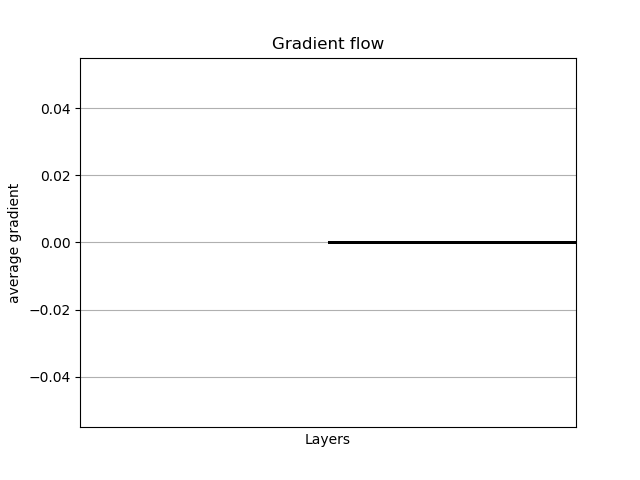
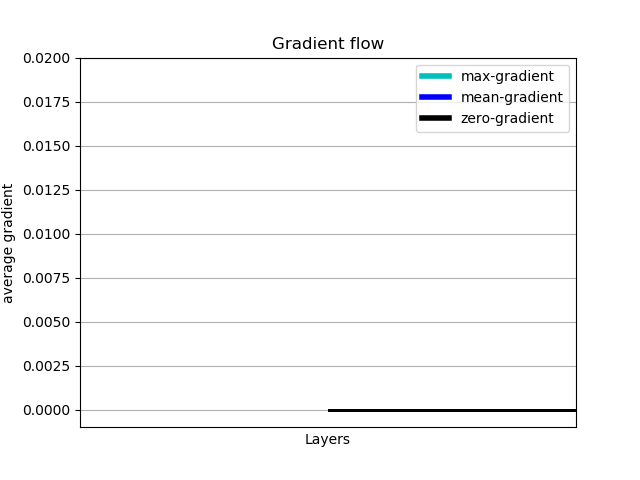
Graph update.

diff --git a/src/gpt2_spred/bad_grad_viz.py b/src/gpt2_spred/bad_grad_viz.py
@@ -1,0 +1,77 @@
+from graphviz import Digraph
+import torch
+from torch.autograd import Variable, Function
+
+def iter_graph(root, callback):
+    queue = [root]
+    seen = set()
+    while queue:
+        fn = queue.pop()
+        print("fn:", fn)
+        if fn in seen:
+            continue
+        seen.add(fn)
+        for next_fn, _ in fn.next_functions:
+            if next_fn is not None:
+                queue.append(next_fn)
+        callback(fn)
+
+def register_hooks(var):
+    fn_dict = {}
+    def hook_cb(fn):
+        def register_grad(grad_input, grad_output):
+            fn_dict[fn] = grad_input
+        fn.register_hook(register_grad)
+    iter_graph(var.grad_fn, hook_cb)
+
+    def is_bad_grad(grad_output):
+        print("====================================")
+        # print("grad_output:", grad_output)
+        print("grad_output:", type(grad_output))
+        grad_output = grad_output.data
+        return grad_output.ne(grad_output).any() or grad_output.gt(1e6).any()
+
+    def make_dot():
+        node_attr = dict(style='filled',
+                        shape='box',
+                        align='left',
+                        fontsize='12',
+                        ranksep='0.1',
+                        height='0.2')
+        dot = Digraph(node_attr=node_attr, graph_attr=dict(size="12,12"))
+
+        def size_to_str(size):
+            return '('+(', ').join(map(str, size))+')'
+
+        def build_graph(fn):
+            if hasattr(fn, 'variable'):  # if GradAccumulator
+                u = fn.variable
+                node_name = 'Variable\n ' + size_to_str(u.size())
+                dot.node(str(id(u)), node_name, fillcolor='lightblue')
+            else:
+                assert fn in fn_dict, fn
+                fillcolor = 'white'
+                # print("Function dict:", fn_dict[fn])
+                if any(is_bad_grad(gi) for gi in fn_dict[fn]):
+                    fillcolor = 'red'
+                dot.node(str(id(fn)), str(type(fn).__name__), fillcolor=fillcolor)
+            for next_fn, _ in fn.next_functions:
+                if next_fn is not None:
+                    next_id = id(getattr(next_fn, 'variable', next_fn))
+                    dot.edge(str(next_id), str(id(fn)))
+        iter_graph(var.grad_fn, build_graph)
+
+        return dot
+
+    return make_dot
+
+if __name__ == '__main__':
+    x = Variable(torch.randn(10, 10), requires_grad=True)
+    y = Variable(torch.randn(10, 10), requires_grad=True)
+
+    z = x / (y * 0)
+    z = z.sum() * 2
+    get_dot = register_hooks(z)
+    z.backward()
+    dot = get_dot()
+    dot.save('tmp.dot')

diff --git a/src/gpt2_spred/gradflow_check.py b/src/gpt2_spred/gradflow_check.py
@@ -1,0 +1,49 @@
+import matplotlib.pyplot as plt
+from matplotlib.lines import Line2D
+import numpy as np
+
+def plot_grad_flow(named_parameters):
+    ave_grads = []
+    layers = []
+    for n, p in named_parameters:
+        if(p.requires_grad) and ("bias" not in n):
+            layers.append(n)
+            ave_grads.append(p.grad.abs().mean())
+    plt.plot(ave_grads, alpha=0.3, color="b")
+    plt.hlines(0, 0, len(ave_grads)+1, linewidth=1, color="k" )
+    plt.xticks(range(0,len(ave_grads), 1), layers, rotation="vertical")
+    plt.xlim(xmin=0, xmax=len(ave_grads))
+    plt.xlabel("Layers")
+    plt.ylabel("average gradient")
+    plt.title("Gradient flow")
+    plt.grid(True)
+    
+
+def plot_grad_flow_v2(named_parameters):
+    '''Plots the gradients flowing through different layers in the net during training.
+    Can be used for checking for possible gradient vanishing / exploding problems.
+    
+    Usage: Plug this function in Trainer class after loss.backwards() as 
+    "plot_grad_flow(self.model.named_parameters())" to visualize the gradient flow'''
+    ave_grads = []
+    max_grads= []
+    layers = []
+    for n, p in named_parameters:
+        if(p.requires_grad) and ("bias" not in n):
+            layers.append(n)
+            ave_grads.append(p.grad.abs().mean())
+            max_grads.append(p.grad.abs().max())
+    plt.bar(np.arange(len(max_grads)), max_grads, alpha=0.1, lw=1, color="c")
+    plt.bar(np.arange(len(max_grads)), ave_grads, alpha=0.1, lw=1, color="b")
+    plt.hlines(0, 0, len(ave_grads)+1, lw=2, color="k" )
+    plt.xticks(range(0,len(ave_grads), 1), layers, rotation="vertical")
+    plt.xlim(left=0, right=len(ave_grads))
+    plt.ylim(bottom = -0.001, top=0.02) # zoom in on the lower gradient regions
+    plt.xlabel("Layers")
+    plt.ylabel("average gradient")
+    plt.title("Gradient flow")
+    plt.grid(True)
+    plt.legend([Line2D([0], [0], color="c", lw=4),
+                Line2D([0], [0], color="b", lw=4),
+                Line2D([0], [0], color="k", lw=4)], ['max-gradient', 'mean-gradient', 'zero-gradient'])
+    plt.savefig("loss.png")

diff --git a/src/gpt2_spred/train.py b/src/gpt2_spred/train.py
@@ -48,8 +48,7 @@ from torch.autograd import Variable
 from pytorch_transformers import (AdamW, WarmupLinearSchedule, cached_path, WEIGHTS_NAME, CONFIG_NAME)
 from dataset import GPTSpredDataset
 from modeling_openai import OpenAIGPTLMHeadModel, OpenAIGPTConfig
-
-import matplotlib.pyplot as plt
+from gradflow_check import plot_grad_flow_v2
 
 ROCSTORIES_URL = "https://s3.amazonaws.com/datasets.huggingface.co/ROCStories.tar.gz"
 
@@ -194,6 +193,7 @@ def main():
                 exp_average_loss = loss_data if exp_average_loss is None else 0.7*exp_average_loss+0.3*loss_data
                 nb_tr_steps += 1
                 tqdm_bar.desc = "Training loss: {:.2e}".format(exp_average_loss)
+            plot_grad_flow_v2(model.named_parameters())
 
     # Save a trained model
     if args.do_train:

diff --git a/src/gpt2_spred/modeling_openai.py b/src/gpt2_spred/modeling_openai.py
@@ -544,8 +544,10 @@ class OpenAIGPTModel(OpenAIGPTPreTrainedModel):
         #===DEBUG===
         hidden_states = inputs_embeds + position_embeds + token_type_embeds
         hidden_states = self.drop(hidden_states)
-        #===DEBUG===
+        #===MOD===
         hidden_states = Variable(hidden_states.data.cuda())
+        #===MOD===
+        #===DEBUG===
         """
         print("hidden_states type:", type(hidden_states))
         print("hidden_states.data type:", type(hidden_states.data))
